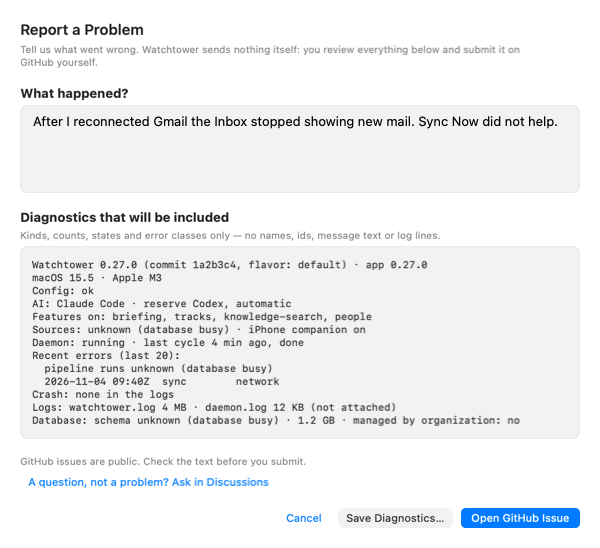
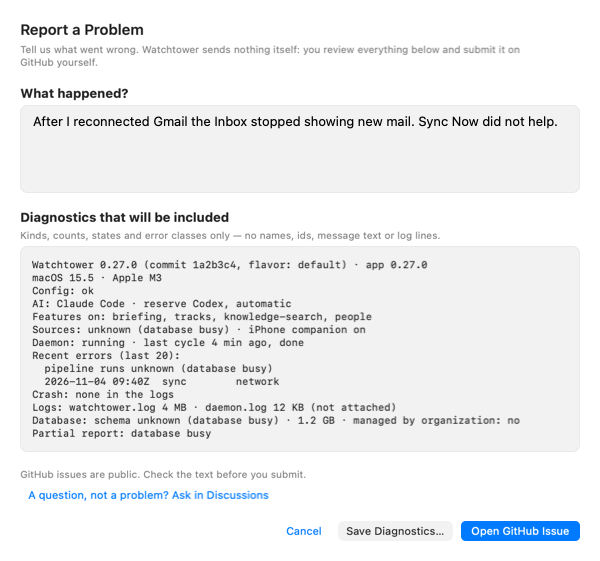
docs(spec): Report a Problem review of ask #1041 (#1527)
Unreadable-database texts, workspace resolution without the fatal
helper, partial on any busy part, one PeekProcess signature, Outlook
row, Writers aligned with Decision 15, busy mockup with the Partial
report line, READ-02 doc edit; two decisions pending an owner ask.

diff --git a/WatchtowerDesktop/Tests/DesignShots/DesignShotFixtures+ReportProblem.swift b/WatchtowerDesktop/Tests/DesignShots/DesignShotFixtures+ReportProblem.swift
@@ -92,6 +92,7 @@ enum ReportProblemMockCopy {
     Crash: none in the logs
     Logs: watchtower.log 4 MB · daemon.log 12 KB (not attached)
     Database: schema unknown (database busy) · 1.2 GB · managed by organization: no
+    Partial report: database busy
     """
 }
 

diff --git a/docs/superpowers/specs/2026-11-04-report-a-problem-design.md b/docs/superpowers/specs/2026-11-04-report-a-problem-design.md
@@ -31,7 +31,7 @@ A new read-only command `watchtower diagnostics [--json] [--app-version <v>] [--
 **What it writes: never the main database file and none of Watchtower's own files; SQLite's `-wal`/`-shm` side files are the one stated exception.** Exactly:
 - a no-op `PersistentPreRunE` (no `ensureSchemaFormat`: no schema upgrade, no config rewrite). The command checks the config file's existence with `os.Stat` first, as `ensureSchemaFormat` does (not-exist → `Config: none (not set up)`), then calls `config.Load`; a load error is reported, not fatal;
 - no features migration: the command never calls `config.MigrateFeatureGates` (see Features below);
-- no pid-file cleanup: `daemon.FindProcess` → `resolveProcess` removes a stale pid file (`removeStalePIDFile`), so the command uses a new `daemon.PeekProcess(path) (pid int, running bool, err error)`: `resolveProcess` gains a `removeStale bool` parameter, `FindProcess` (and every other existing caller) passes `true` and behaves as today, `PeekProcess` passes `false`. Test `internal/daemon::TestPeekProcess_LeavesStalePIDFile`;
+- no pid-file cleanup: `daemon.FindProcess` → `resolveProcess` removes a stale pid file (`removeStalePIDFile`), so the command uses a new `daemon.PeekProcess(path) (pid int, state PeekState, err error)` (the five states in the Daemon row of the Inputs table): `resolveProcess` gains a `removeStale bool` parameter, `FindProcess` (and every other existing caller) passes `true` and behaves as today, `PeekProcess` passes `false`. Test `internal/daemon::TestPeekProcess_LeavesStalePIDFile`;
 - `Execute()` starts the stale-temp sweep through `shouldSweepTemp(role)`, which is false for `cli:diagnostics`;
 - the database is opened with the new `db.OpenExistingContext(ctx, path, 500 ms)` — `OpenExisting`'s DSN (`mode=rw` + `_query_only=1`), no migration, `PingContext(ctx)` — through a connector that turns off SQLite's checkpoint on close; then `lockmetrics.Configure("")`, so no `dblock.jsonl` line. `query_only` refuses every write statement.
 - **No checkpoint, ever (ask #1033).** By default SQLite checkpoints the WAL into the main file when the last connection to a database closes; on a stopped install with a left-over WAL that would write `watchtower.db`. The diagnostics connection prevents it:
@@ -60,17 +60,19 @@ The text, one fact per line:
 ```
 Watchtower <version> (commit <sha>, flavor: default|corp) · app <--app-version>
 macOS <x.y> · <chip>
-Config: ok | none (not set up) | unreadable (parse|permission|other)
+Config: ok | none (not set up) | unreadable (parse|permission|other) | unknown (no home directory)
+Workspace: not chosen (<n> found) | none yet | unknown (invalid name|lookup failed|no home directory)   ← only when no workspace resolves; it replaces every workspace line
 AI: <provider> · reserve <provider>, automatic|off
 Features on: <feature ids>
 Sources: <Kind> <n> [ok|<k> needs sign-in|<k> error|<k> purged|<k> off] · … · Quick Connections <n> · iPhone companion on|off
-Daemon: running|stopped · last cycle <age> ago, done|error|running
+Daemon: running | stopped | stopped (stale pid file) | unknown (process not confirmed) | unknown (pid file corrupt) | unknown (pid file unreadable: permission|other) · last cycle <age> ago, done|error|running | no cycle yet | last cycle unknown
 Recent errors (last 20):
   <yyyy-MM-dd HH:mmZ>  <phase>  <class>
   (or: pipeline runs unknown (<reason>), followed by the sync row)
 Crash: none in the logs | <n> in the logs, last after <yyyy-MM-dd HH:mmZ>, in <place> | <n> in the logs, last time unknown, in <place>
 Logs: watchtower.log <size> · daemon.log <size> (not attached)
 Database: schema <goose version> · <size> · managed by organization: yes|yes (with errors)|no
+Partial report: <reasons>   ← only when partial (see Budget outputs)
 ```
 
 - **Line parts.** A line is made of parts, and each part fails on its own: a database part that is busy or missing prints `unknown (<reason>)` in its place while the file- and flag-based parts of the same line still print — `Sources: unknown (database busy) · iPhone companion on`, `Database: schema unknown (database busy) · 1.2 GB · managed by organization: no`, and in Recent errors the sync row from `last_sync.json` under `pipeline runs unknown (database busy)` (mockup `report-problem-busy`).
@@ -83,7 +85,8 @@ Database: schema <goose version> · <size> · managed by organization: yes|yes (
   | Jira | `jira_accounts` | as Slack, incl. `removed` → not counted, `enabled = 0` → off |
   | Confluence | `ext_sources` with `provider = 'confluence'` (spaces, shown as `<n> spaces`) | `status` CHECK `ok`/`error`/`needs_consent`/`revoked`: `ok` → ok; `error` → error; `needs_consent` and `revoked` → needs sign-in; `enabled = 0` → off |
   | Linear | `linear_accounts` | as Slack |
-  | Email over IMAP | `email_accounts` | `ok`, `error`, `revoked` |
+  | Email over IMAP | `email_accounts` with `provider = 'imap'` (text: `Email (IMAP) <n>`) | `ok`, `error`, `revoked` |
+  | Outlook | `email_accounts` with `provider = 'outlook'` (text: `Outlook <n>`) — Microsoft mail synced over IMAP with OAuth (`internal/imap/outlook_auth.go`); the form has no Outlook checkbox, so JSON `sources` maps it to `Email over IMAP` | `ok`, `error`, `revoked` |
   | Calendar (CalDAV/ICS) — **not a form option** | `calendar_accounts` | `ok`, `error`, `revoked`; shown in the text line, omitted from JSON `sources` |
   | Quick Connections | `external_connections` with `enabled = 1` | count only |
 
@@ -122,6 +125,13 @@ Database: schema <goose version> · <size> · managed by organization: yes|yes (
 
 ### Inputs, and what each does when it fails
 
+**Paths without a fatal helper.** `config.WorkspaceDir()` (and `DBPath()`, built on it) calls `log.Fatalf` when the home directory cannot be determined, which would break "always exit 0". The command never calls them: it resolves `root, err := config.DataRoot()` (returns the error) and joins `root/<ActiveWorkspace>` itself. The config path is `flagConfig`; `defaultConfigPath()` returns `""` when there is no home directory and no `WATCHTOWER_CONFIG_PATH`. Outcomes:
+- `flagConfig == ""` → `Config: unknown (no home directory)`; every config- and workspace-dependent line as "no config".
+- `DataRoot()` error → `Workspace: unknown (no home directory)`; every workspace line `unknown (no home directory)`.
+- Config loaded but `ActiveWorkspace` empty (`config.Load`'s `resolveActiveWorkspace` picks the only workspace holding a database, and leaves it empty when there are none or several): the command counts `config.WorkspaceDirsWithDatabase(root)` itself and prints `Workspace: not chosen (<n> found)` for several, `Workspace: none yet` for none, `Workspace: unknown (lookup failed)` when the scan fails — never the names (they can be company names). An `ActiveWorkspace` failing `config.ValidWorkspaceRe` → `Workspace: unknown (invalid name)`.
+- Whenever the `Workspace:` line is printed, it replaces the workspace lines — Sources (account kinds, Quick Connections), Daemon, Recent errors, Crash, Logs and the schema/size parts of Database — which each print `unknown (no workspace)`; the iPhone and policy parts still print. So a several-workspace install never shows a misleading `Daemon: stopped` or `unknown (no database)` from the data root.
+- Tests (`TestDiagnostics_InputFailures` cases): `no_home_dir` (HOME unset, exit 0, no fatal), `workspace_not_chosen` (two workspaces with databases, line says `(2 found)`, no names), `workspace_none_yet`, `workspace_lookup_failed`, `workspace_invalid_name`.
+
 Every line is built by its own function run through `safeLine`, which recovers a panic and prints `unknown (internal error)` for that line only. No input runs an external program: verified 2026-11-04 that `internal/config`, `internal/providers`, `internal/features` and `internal/policy` contain no `exec.Command`/`exec.LookPath`; the provider line reads config fields only and never resolves models by calling a CLI.
 
 | Input | What it reads | Missing / failed / slow → printed text | Test |
@@ -138,6 +148,7 @@ Every line is built by its own function run through `safeLine`, which recovers a
 | Recent errors | own `QueryContext` on `pipeline_runs`, plus `last_sync.json` | no rows → `none`; no database / deadline → `unknown (no database)` / `unknown (database busy)` | `TestDiagnostics_RecentErrors`, busy tests below |
 | Error class | `diagnostics.ErrorClass` (pure) | cannot fail; unknown wording → `other` | `TestErrorClass` |
 | Schema, size | own `QueryContext`: `SELECT max(version_id) FROM goose_db_version`; `os.Stat` of the file | no goose table → `schema unknown`; deadline → `schema unknown (database busy)` while the size still prints; stat error → size left out | `TestDiagnostics_DatabaseLine`, `TestDiagnostics_BusyKeepsFileParts` |
+| Database open / read | `db.OpenExistingContext`, then the reads | the database parts (Sources kinds and Quick Connections, pipeline runs, schema) print: file missing → `unknown (no database)`; `SQLITE_NOTADB` (not a database — also a SQLCipher-keyed file once #603 Stage 2 lands) → `unknown (database unreadable: not a database)`; `SQLITE_CORRUPT` → `unknown (database unreadable: corrupt)`; `SQLITE_CANTOPEN`/`SQLITE_PERM`/`SQLITE_READONLY` or `fs.ErrPermission` → `unknown (database unreadable: permission)`; the driver does not confirm `NO_CKPT_ON_CLOSE` (`out != 1`, the connect fails, nothing is read and nothing is retried without it) → `unknown (database not opened: checkpoint guard unavailable)`; any other open error → `unknown (database unreadable: other)`. The file-size part still prints whenever `os.Stat` works | `TestDiagnostics_InputFailures` cases `db_missing`, `db_not_a_database` (random bytes), `db_corrupt` (a valid header with a damaged page), `db_permission` (mode 000), `db_no_ckpt_guard` (connector seam returns `out = 0`), `db_other` |
 | Log sizes | `os.Stat` of `watchtower.log`, `daemon.log` | missing → `<file> missing`; other error → `<file> unreadable` | `TestDiagnostics_LogMissing`, `TestDiagnostics_LogUnreadable` |
 | Crash | streamed reads of `watchtower.log.1`, `watchtower.log`, `daemon.log` | file missing/unreadable → skipped; all three → `Crash: unknown (no logs)`; 2 s budget hit → `(scan stopped after <N> MB)` | crash tests in Failure modes |
 | Any input | — | panic → `unknown (internal error)`; still running at the 8 s hard stop → `unknown (timed out)` | `TestDiagnostics_LinePanicIsContained`, `TestDiagnostics_HardStop` |
@@ -149,7 +160,7 @@ The Desktop kills the command after 10 s (`CLIRunnerProtocol.run(args:timeout:)`
 
 - **One database deadline.** All database work — the open's ping and every query — runs under one `context.WithTimeout` of **4 s**, started before the open. The busy timeout per statement is **500 ms**. When the deadline passes, the statement in flight and every database line not yet computed print `unknown (database busy)`; lines already computed stay.
 - **How the deadline reaches SQLite (verified 2026-11-04).** `db.OpenExisting` calls `Ping()` with no context and opens `mode=rw`, and the existing read helpers take no context, so the command reuses none of them:
-  - `internal/db/db.go`: `openExistingDSN(dbPath, dsn)` becomes `openExistingDSN(ctx, dbPath, dsn)` and calls `d.PingContext(ctx)` (the pool's `pragmaConnector.Connect(ctx)` already receives that context). New exported `OpenExistingContext(ctx, dbPath, busy)` = `OpenExisting`'s DSN through that path. `OpenExisting` and `OpenExistingRW` pass `context.Background()` — the same behaviour as today for every caller (grep 2026-11-04): `cmd/workbench_asks_cli.go`, `cmd/workbench_spec_review.go`, `cmd/workbench_askguard.go` ×2, `cmd/workbench_askguard_stop.go` ×3 (two `OpenExisting`, one `OpenExistingRW`), `cmd/workbench_session_feed.go`, `cmd/usage_llm.go`, `cmd/llmusage_wiring.go` (RW), `internal/agentlogdb/totals.go`, `internal/db/compact.go` ×2 (one RW), `internal/db/fts_rebuild.go` ×3 (one RW), `internal/hub/wiring.go`, `internal/hub/state/state.go`. No other function in `internal/db` changes.
+  - `internal/db/db.go`: `openExistingDSN(dbPath, dsn)` becomes `openExistingDSN(ctx, dbPath, dsn)` and calls `d.PingContext(ctx)` (the pool's `pragmaConnector.Connect(ctx)` already receives that context). New exported `OpenExistingContext(ctx, dbPath, busy)` = `OpenExisting`'s DSN through that path. `OpenExisting` and `OpenExistingRW` pass `context.Background()` — the same behaviour as today for every caller (grep 2026-11-04): `cmd/workbench_asks_cli.go`, `cmd/workbench_spec_review.go`, `cmd/workbench_askguard.go` ×2, `cmd/workbench_askguard_stop.go` ×3 (two `OpenExisting`, one `OpenExistingRW`), `cmd/workbench_session_feed.go`, `cmd/usage_llm.go`, `cmd/llmusage_wiring.go` (RW), `internal/agentlogdb/totals.go`, `internal/db/compact.go` ×2 (one RW), `internal/db/fts_rebuild.go` ×3 (one RW), `internal/hub/wiring.go`, `internal/hub/state/state.go`. Besides `openExistingDSN` and the new `OpenExistingContext`, the only other change in `internal/db` is the small `openExistingWith(ctx, dbPath, connector)` from the Seam below, which `OpenExistingContext` uses to pass its `NoCheckpointOnClose` connector; no existing function's behaviour changes.
   - The four reads (accounts, Quick Connections, `pipeline_runs`, goose version) are the command's own `QueryContext` calls in `cmd/diagnostics.go`; no shared helper gains a context parameter.
   - The driver honours the context: `internal/sqlcipher/sqlite3.go` runs a statement in a goroutine and calls `sqlite3_interrupt` on `ctx.Done()` (exec ~l.2481, rows ~l.2698). Its own comment says the interrupt is racy and can miss between `sqlite3_*` calls; the statement then finishes on its own, bounded by the 500 ms busy timeout plus the query's own time (small aggregate reads).
   - **Close** is inside the database stage and its budget; it never checkpoints (`NO_CKPT_ON_CLOSE`).
@@ -168,7 +179,7 @@ The Desktop kills the command after 10 s (`CLIRunnerProtocol.run(args:timeout:)`
 | Log scan (2 s) | `Crash: … (scan stopped after <N> MB)` — the crashes found so far, or `Crash: none in the first <N> MB of the logs (scan stopped)` when none; Logs line unaffected (stat only) | `partial: true`; last line `Partial report: log scan stopped` | `budget_logscan_with_crash`, `budget_logscan_none_found` |
 | Hard stop (8 s) | every line or part not finished: `unknown (timed out)` | `partial: true`; last line `Partial report: timed out at 8 s` | `budget_hard_stop` |
 
-When more than one budget runs out, the last line names each, comma-separated in table order (`Partial report: database busy, log scan stopped`). A complete report has no such line and `partial: false`. The Desktop shows a partial report as ready (the text explains itself), not as failed.
+**`partial` is true when any budget ran out or any part printed `database busy` or `timed out`** — a single statement that waits its 500 ms `busy_timeout` and fails with `SQLITE_BUSY` before the 4 s deadline also prints `unknown (database busy)` for its part and sets `partial`. The last line names each reason once, comma-separated in table order (`Partial report: database busy, log scan stopped`). A complete report has no such line and `partial: false`. Test cases `busy_single_statement` (one held lock for one read only: that part busy, `partial: true`, `Partial report: database busy`) and `busy_and_logscan` (both reasons, in order). The Desktop shows a partial report as ready (the text explains itself), not as failed.
 
 A busy database is real even in WAL mode: a writer holding `locking_mode = EXCLUSIVE`, or WAL recovery after a crash, makes readers wait. Test `TestDiagnostics_BusyDatabaseFinishesInTime`: another connection takes an exclusive lock (`PRAGMA locking_mode = EXCLUSIVE; BEGIN EXCLUSIVE`) and holds it; the command finishes in under 5 s of database time and under 7.5 s total, exits 0, prints `unknown (database busy)` for Sources, Recent errors and Database, and every non-database line normally. A second test, `TestDiagnostics_DeadlineMidway`, uses a fake reader seam whose queries sleep 1.5 s each: the lines computed before the deadline are printed, the rest say `unknown (database busy)`, and the total stays under 7.5 s.
 
@@ -252,7 +263,7 @@ Colors only through `Tone` (`Tone.warning` for failures and the too-long notice,
 | Save fails | inline notice with the reason, atomic write leaves nothing partial | `testSaveFailureShowsReason` |
 | Corp build | no GitHub, no Discussions; Save only | `testCorpBuildOffersSaveOnly` |
 
-**Writers.** None of this data has a writer: the command and the sheet only read. The only writes are the user-chosen file and the pasteboard, each once per user press.
+**Writers.** None of this data has a writer: the command and the sheet write no Watchtower data and never the main database file. Per Decision 15, the only file effects are SQLite's own: the `-shm` read marks / wal-index, and on a cleanly stopped install a new empty `-wal` + `-shm` pair that stays until the next normal open. The sheet's only writes are the user-chosen file and the pasteboard, each once per user press.
 
 ## Paths that change together
 
@@ -305,7 +316,12 @@ Colors only through `Tone` (`Tone.warning` for failures and the too-long notice,
 | 23 | Per-input failure behaviour, a panic contained per line, no input runs an external program; the iPhone flag comes from the Desktop as `--iphone` | ask #1030 (owner asked for the coverage; the specifics decided by agent) |
 | 24 | CLI audit: `diagnostics` is decided as a **no-content** command — it joins `cliNoContentCommands` in `cmd/audit_cli_test.go` (next to `policy show`, `version`) with the comment "kinds, counts, states and error classes only (DIAG-01)", so it writes **no** `com.watchtower.audit` line, under an agent marker or not. It prints no synced content (DIAG-01's guard proves it), so READ-02's "every company-data read leaves one line" does not apply; READ-01's budget is for registry read tools and the command is not one (no MCP tool is added) | ask #1039 |
 | 25 | Under an agent marker (`CLAUDECODE`, `CODEX_*`, `WATCHTOWER_TERMINAL_SESSION_ID`, `WATCHTOWER_AUTOMATION_RUN_ID`) the command runs as usual — it is not an owner gesture, writes nothing and shows no content, so AGENT-07's `refuseUnderAgent` list does not grow | ask #1039 |
-| 26 | Daemon line texts for every `PeekProcess` state and pid-file error, and the budget outputs with the `Partial report:` marker and JSON `partial` | ask #1034 (owner asked for them; the texts decided by agent) |
+| 26 | Daemon line texts for every `PeekProcess` state and pid-file error, and the budget outputs | ask #1034 (owner asked for them; the texts decided by agent) |
+| 27 | The pinned JSON key `partial` and the `Partial report: <reasons>` last line; `partial` = any budget ran out or any part busy/timed out | pending owner ask |
+| 28 | Open GitHub Issue is disabled while "What happened?" is empty, in every state | pending owner ask |
+| 29 | Paths resolved without `WorkspaceDir`/`DBPath` (no `log.Fatalf`); a `Workspace:` line replaces the workspace lines when none resolves, with a count and never names | decided by agent |
+| 30 | Unreadable-database texts per SQLite error class; no read without the checkpoint guard | decided by agent |
+| 31 | Outlook accounts shown on their own in the text and mapped to the form's `Email over IMAP` checkbox | decided by agent |
 
 ### Contracts touched
 
@@ -332,7 +348,7 @@ Real SwiftUI shots from `DesignShotCatalog` (`ReportProblemShotFixtures` in `Wat
 | `report-problem-collecting` | loading/busy: empty field, spinner + "Collecting diagnostics…", Save and Open disabled |
 | `report-problem-empty` | ready, nothing typed: full diagnostics, "Describe the problem to continue.", Open disabled |
 | `report-problem-filled` | ready, typed: full diagnostics, Discussions link, Cancel · Save Diagnostics… · Open GitHub Issue |
-| `report-problem-busy` | database busy: `Sources: unknown (database busy) · iPhone companion on`, `pipeline runs unknown (database busy)` with the sync row under it, `Database: schema unknown (database busy) · 1.2 GB · managed by organization: no`; every other line normal, sheet ready |
+| `report-problem-busy` | database busy: `Sources: unknown (database busy) · iPhone companion on`, `pipeline runs unknown (database busy)` with the sync row under it, `Database: schema unknown (database busy) · 1.2 GB · managed by organization: no`, and the last line `Partial report: database busy`; every other line normal, sheet ready |
 | `report-problem-failed` | error: warning with the 10-second reason, partial lines (app and macOS versions), Retry; Open enabled because text is typed |
 | `report-problem-opened` | after Open: green "Opened in your browser…" notice, Cancel became Done |
 | `report-problem-tooLong` | after Open over budget: warning "did not fit in the link" + Copy Report, Done |
@@ -358,6 +374,7 @@ Re-render: `cd WatchtowerDesktop && DESKTOP_SHOTS_DIR=<dir> swift test --filter 
 
 - Guide: `docs/guide/troubleshooting/README.md` gains "Report a problem" (Help → Report a Problem…, what is included, Discussions for questions, `watchtower diagnostics` from the terminal, the corp variant); `.github/ISSUE_TEMPLATE/bug_report.yml`'s `version`/`logs` descriptions mention `watchtower diagnostics`.
 - `docs/daemon-pipeline.md`: its data-paths table gains `watchtower diagnostics` as a reader of `watchtower.log`/`.1`/`daemon.log`, `daemon.pid`, `last_sync.json` and the database (read-only), and states where panics land.
+- `docs/inventory/agent-actions.md` (where READ-02 lives): a changelog line — `diagnostics` decided as a no-content CLI command (`cliNoContentCommands`, decision 24), READ-02 unchanged — and `cmd/audit_cli_test.go` gains the entry.
 - Inventory: a new `docs/inventory/diagnostics.md` with DIAG-01 (Enforced, guard `cmd/diagnostics_test.go::TestDIAG01_NoNamesOrText`, approved in ask #1026) and a row in `docs/inventory/README.md`: Diagnostics → `diagnostics.md` → `cmd/diagnostics.go`, `internal/diagnostics/`, `WatchtowerDesktop/Sources/WatchtowerCore/` (`ReportProblem*`).
 - Feature note `docs/features/report-a-problem.md` + CLAUDE.md index line.
 
